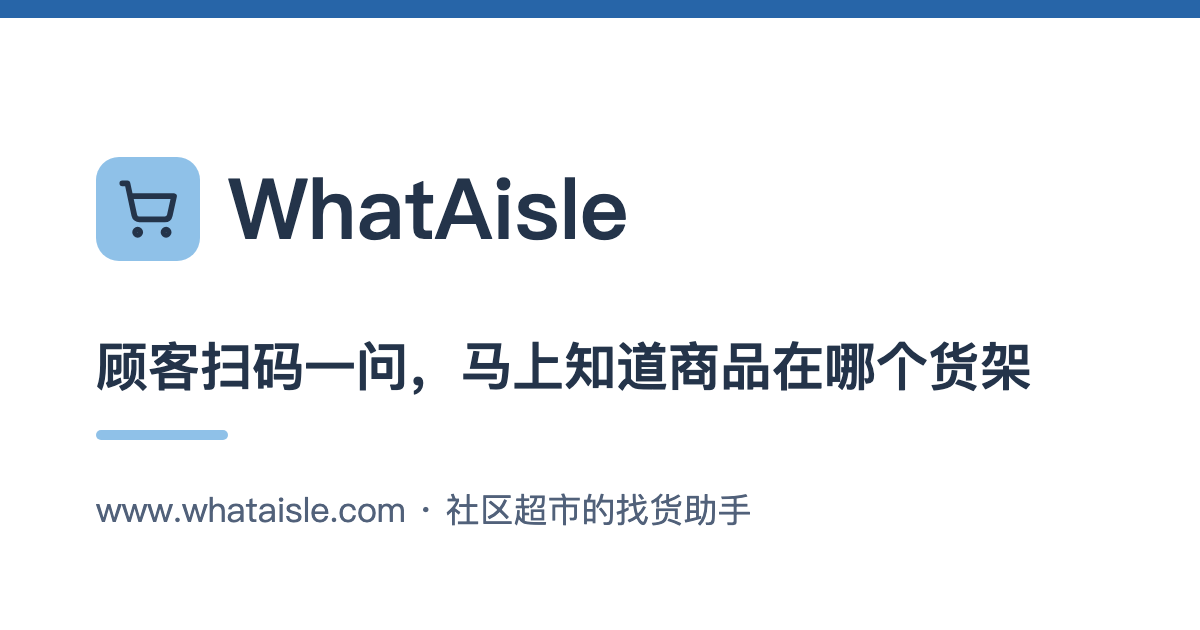
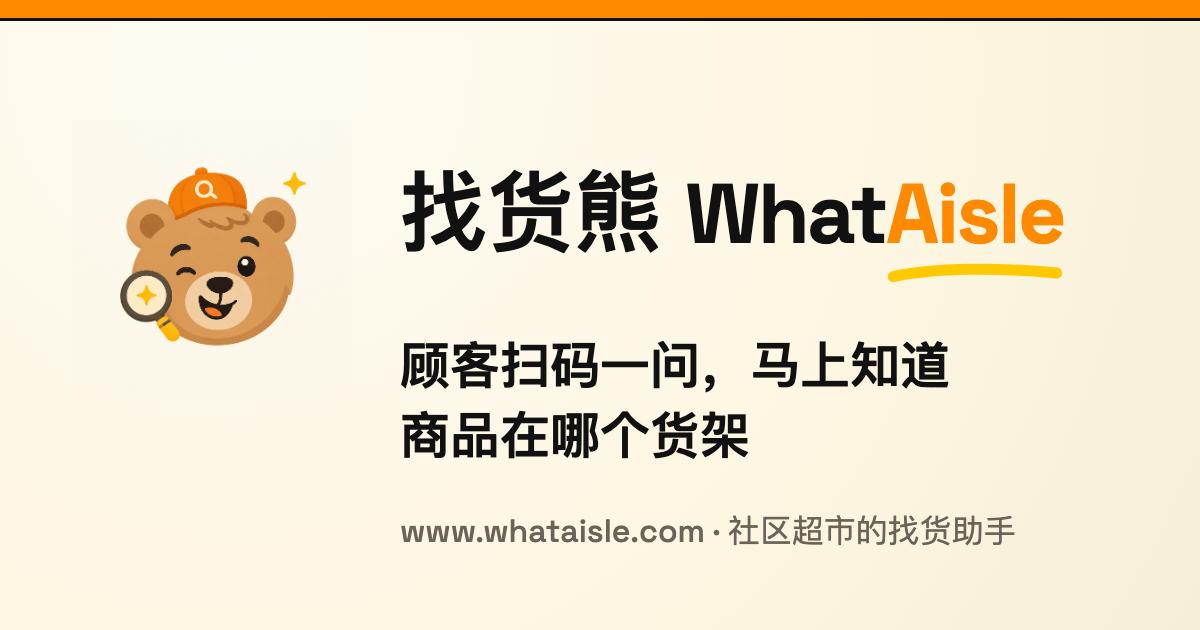
feat: bear rebrand phase 8 — regenerate every brand binary from the bear art
render-brand-assets.mts rewritten for the bear identity:
- input is scripts/assets/bear-source.png (wherebear's 1254² original,
  white matte) composited with mix-blend-mode:multiply inside an isolated
  cream chip — Playwright screenshots flatten the blend so outputs are
  plain pixels. The OG bear deliberately skips isolation so it multiplies
  against the page gradient (isolated-over-transparent kept the matte as
  a white square).
- outputs: favicon 16/32 (cream chip, 1px ink border at 32), logo.png +
  logo-dark.png 256 (8px ink border chip — also the email header and
  Discord avatar; dark twin kept only so config paths stay valid),
  apple-touch-icon (white plate), android-chrome 192/512 maskable
  (full-bleed cream, bear in safe zone), og.png 1200×630 (cream radial,
  orange top strip with ink rule, 280px bear, 找货熊 + two-tone
  What/Aisle wordmark with yellow marker underline in Space Grotesk,
  zh tagline, muted domain line).
- favicon.ico:  emitted a broken fixed 285KB blob
  regardless of input, so the ico is now written directly per the ICO
  spec with PNG-embedded frames (2KB); the recipe lives in the script
  header.
- ogImage cache-buster bumped to ?v=3 (build-time, requires this deploy).

diff --git a/src/config/website.tsx b/src/config/website.tsx
@@ -39,7 +39,7 @@ export const websiteConfig: WebsiteConfig = {
   },
   metadata: {
     images: {
-      ogImage: '/og.png?v=2',
+      ogImage: '/og.png?v=3',
       logoLight: '/logo.png',
       logoDark: '/logo-dark.png',
     },
